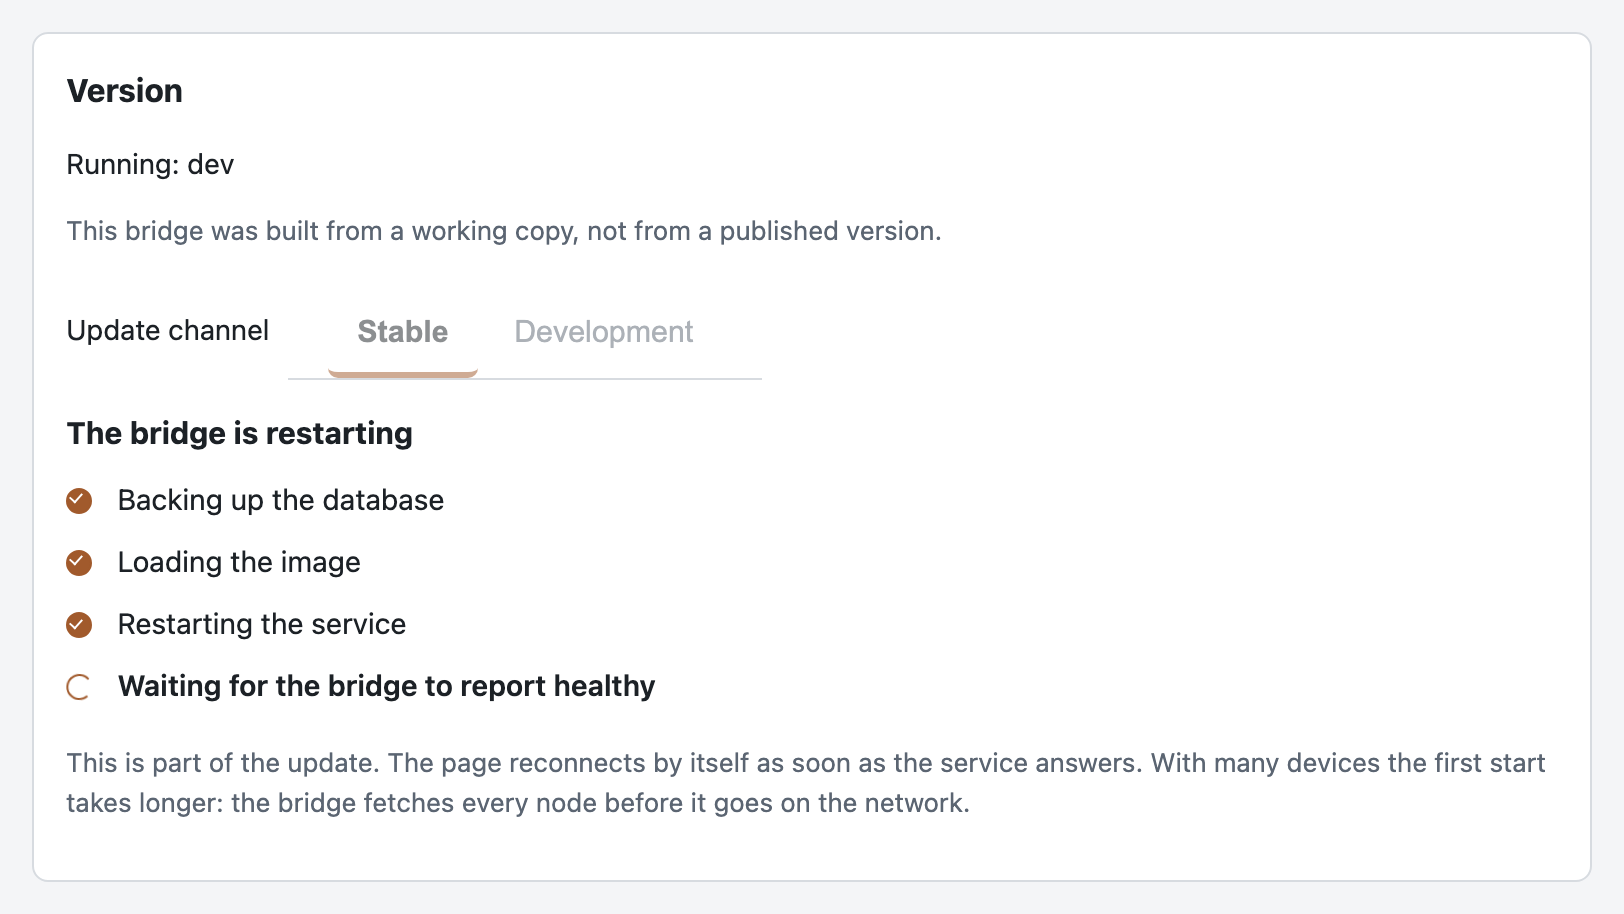
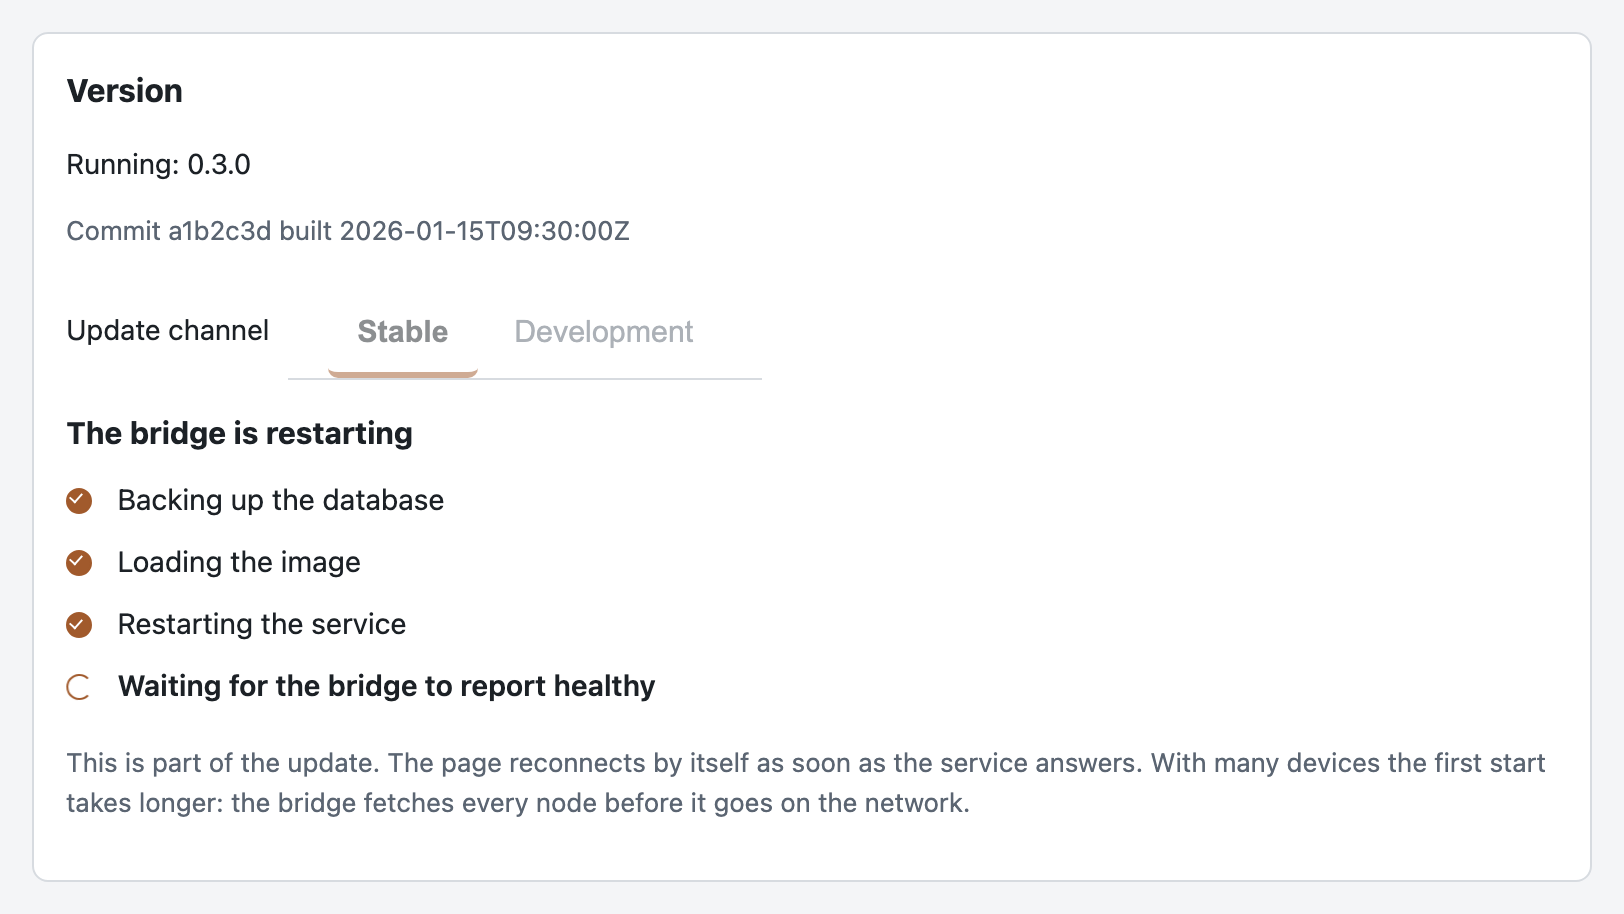
docs(screenshots): Show released version in update card, not development build warning
The update.png screenshot showed "Running: dev" with the message "This
bridge was built from a working copy, not from a published version." This
honest development message doesn't belong on the product page, where the
screenshot illustrates the update feature to prospective users.

Set fixed environment variables for LOXMATTER_VERSION, LOXMATTER_COMMIT,
and LOXMATTER_BUILT_AT when capturing the screenshot. This follows the
precedent established by DEMO_TIMESTAMP for other reproducible demo data.
The captured image now shows a plausible released version (0.3.0) and
remains byte-identical across script runs.

Changed region(s): [[0.0308, 0.2451, 0.585, 0.2757], [0.1232, 0.1532, 0.1539, 0.2144]]

diff --git a/scripts/capture_screenshots.py b/scripts/capture_screenshots.py
@@ -55,6 +55,7 @@ pyproject.toml - sie wird nur zum Neuerzeugen dieser Bilder gebraucht.
 from __future__ import annotations
 
 import json
+import os
 import subprocess
 import sys
 import tempfile
@@ -74,6 +75,17 @@ PASSWORD = "loxmatter-demo"
 # siehe dort `_seed_demo_update_dir`) - dieses Skript will einen laufenden
 # Job zeigen, siehe `_seed_update_dir()` unten.
 UPDATE_DIR = Path(tempfile.gettempdir()) / "loxmatter-screenshot-update"
+
+# Fixed build info for reproducible screenshots. These values follow the
+# same pattern as DEMO_TIMESTAMP in dev_web_server.py: without them, the
+# bridge would display "dev" and warn "This bridge was built from a working
+# copy, not from a published version" - a development artifact that doesn't
+# belong on the product page's marketing screenshot. Using fixed values
+# ensures the screenshot shows a released version and remains identical
+# across runs.
+DEMO_VERSION = "0.3.0"
+DEMO_COMMIT = "a1b2c3d"
+DEMO_BUILT_AT = "2026-01-15T09:30:00Z"
 
 # `main` ist per CSS auf 960 px begrenzt, ein breiteres Fenster erzeugt also
 # nur grauen Rand. 820 px lassen die Inhaltsspalte selbst die Breite bestimmen
@@ -449,6 +461,16 @@ def capture(page: Page) -> None:
 
 def main() -> int:
     _seed_update_dir(UPDATE_DIR)
+    # Set up environment with fixed build info for reproducible screenshots.
+    # Inherit parent's environment first, then override with demo values.
+    env = os.environ.copy()
+    env.update(
+        {
+            "LOXMATTER_VERSION": DEMO_VERSION,
+            "LOXMATTER_COMMIT": DEMO_COMMIT,
+            "LOXMATTER_BUILT_AT": DEMO_BUILT_AT,
+        }
+    )
     server = subprocess.Popen(
         [
             sys.executable,
@@ -458,7 +480,8 @@ def main() -> int:
             str(PORT),
             "--update-dir",
             str(UPDATE_DIR),
-        ]
+        ],
+        env=env,
     )
     try:
         time.sleep(4)
